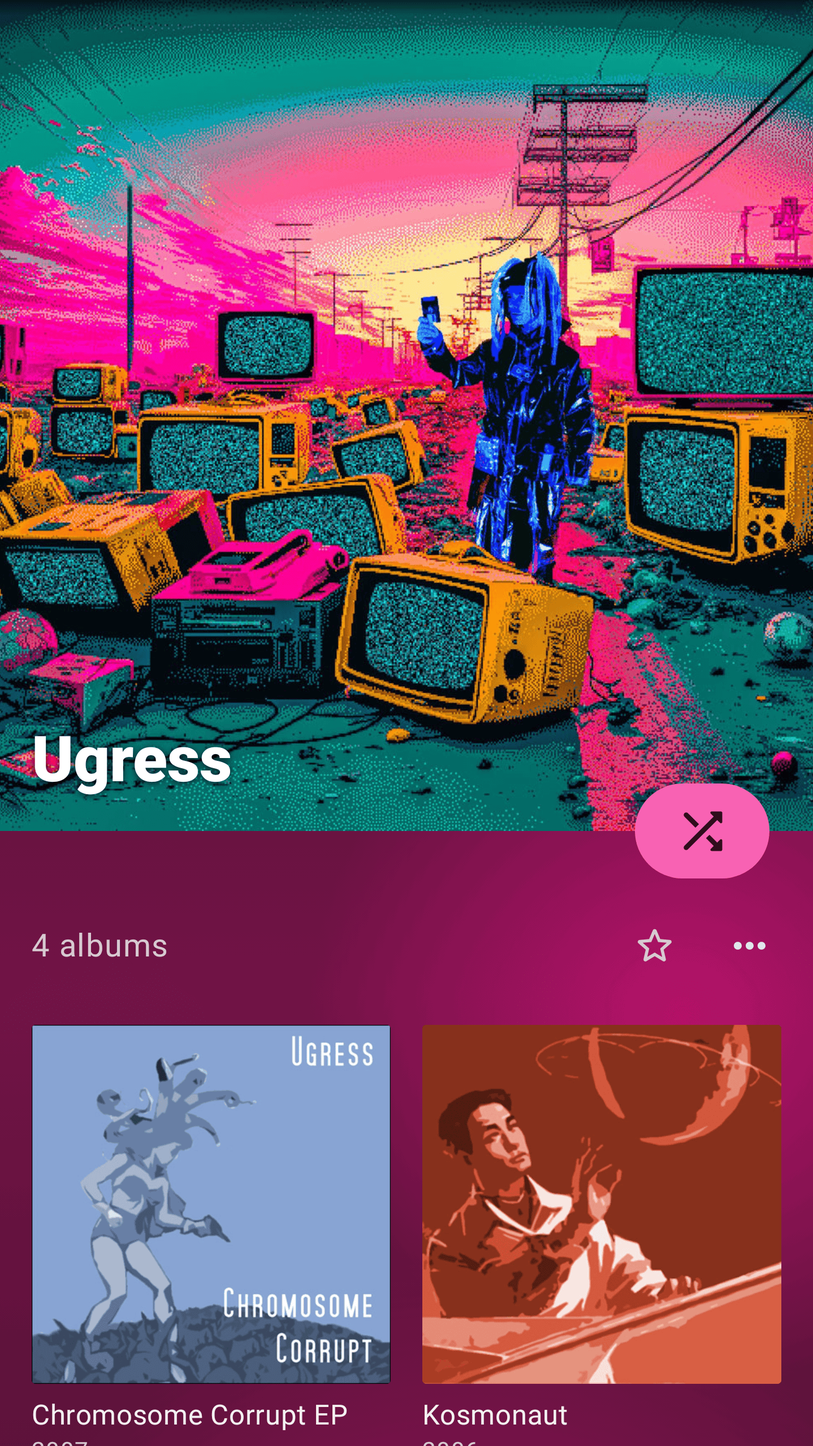
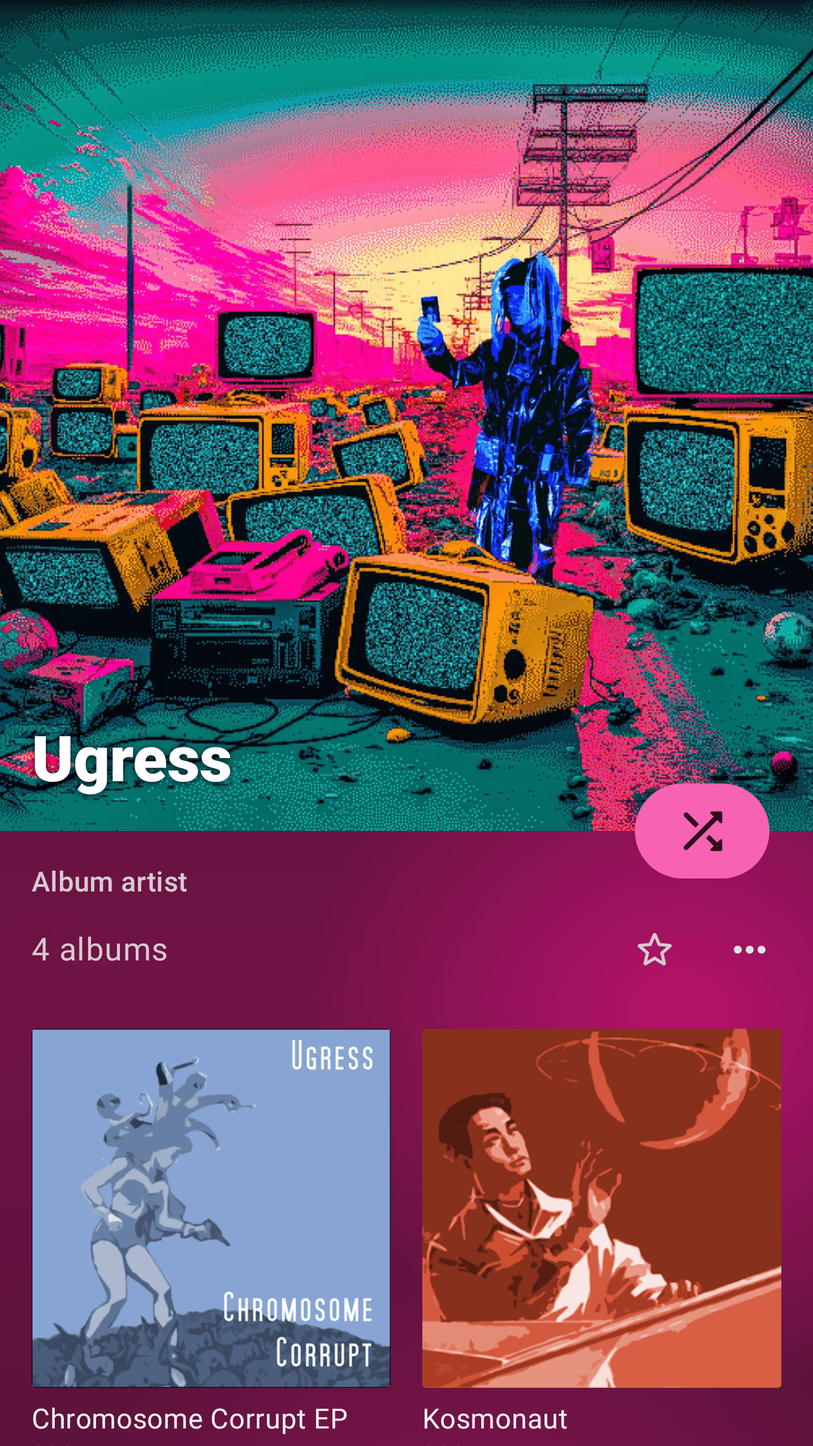
metadata: refresh the artist store screenshot
The artist page now shows the artist name, an Artist/Album artist label
and keeps the count on the button row. Feed those fields in the demo
screenshot and re-render 05_artist.png from the Navidrome demo library.

diff --git a/app/src/test/kotlin/com/subtracks/ui/DemoScreenshotTest.kt b/app/src/test/kotlin/com/subtracks/ui/DemoScreenshotTest.kt
@@ -174,6 +174,8 @@ class DemoScreenshotTest {
                         Screen.ArtistDetail -> {
                             ArtistDetailScreen(
                                 artist = demo.artist,
+                                artistName = demo.artist.name,
+                                isAlbumArtist = demo.artistAlbums.any { it.artistId == demo.artist.id },
                                 albums = demo.artistAlbums,
                                 art = demo.coverArt(demo.artist.coverArt, false),
                                 artThumbnail = demo.coverArt(demo.artist.coverArt, true),
